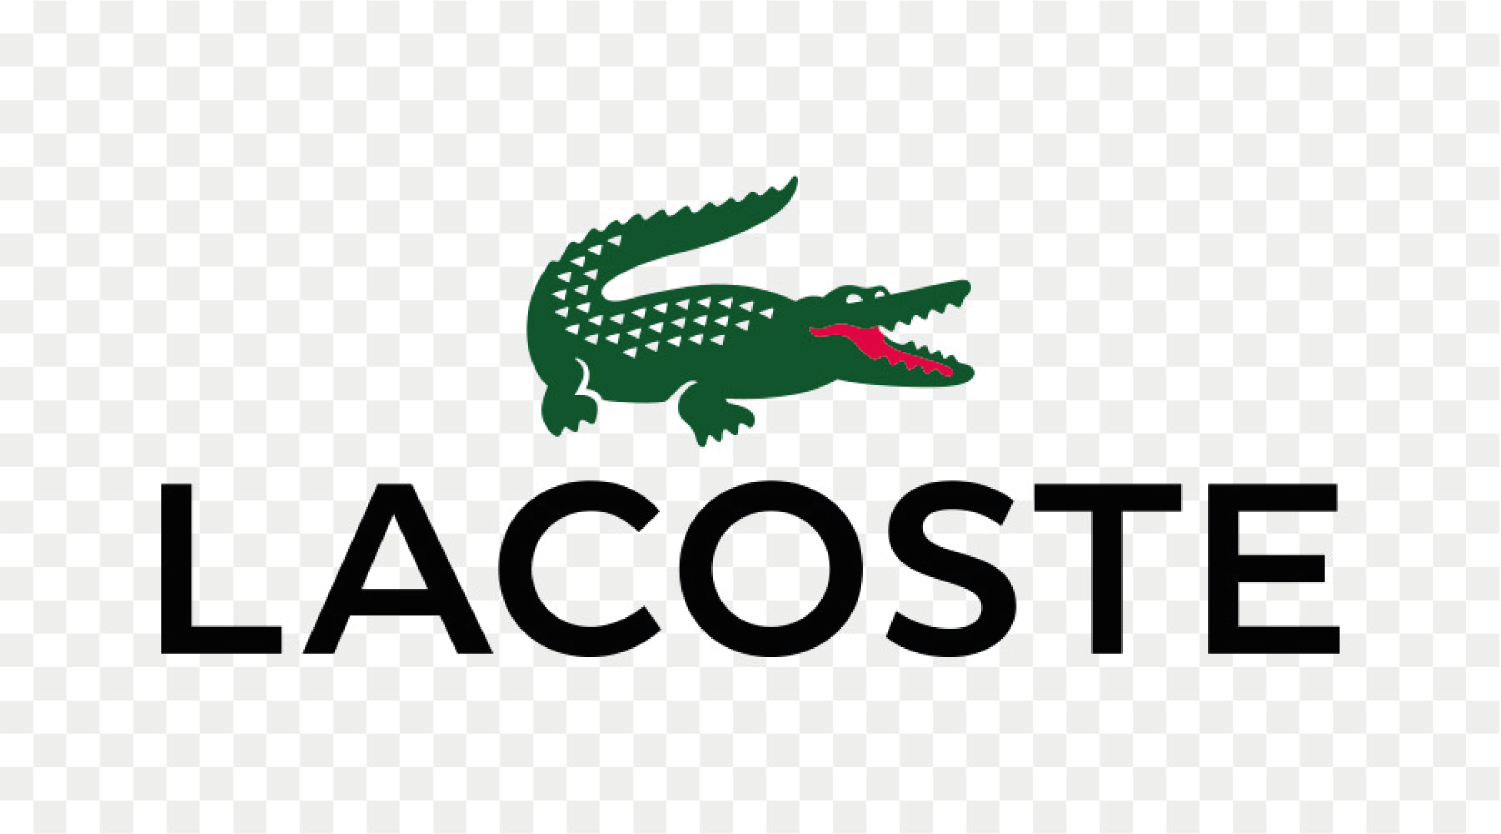
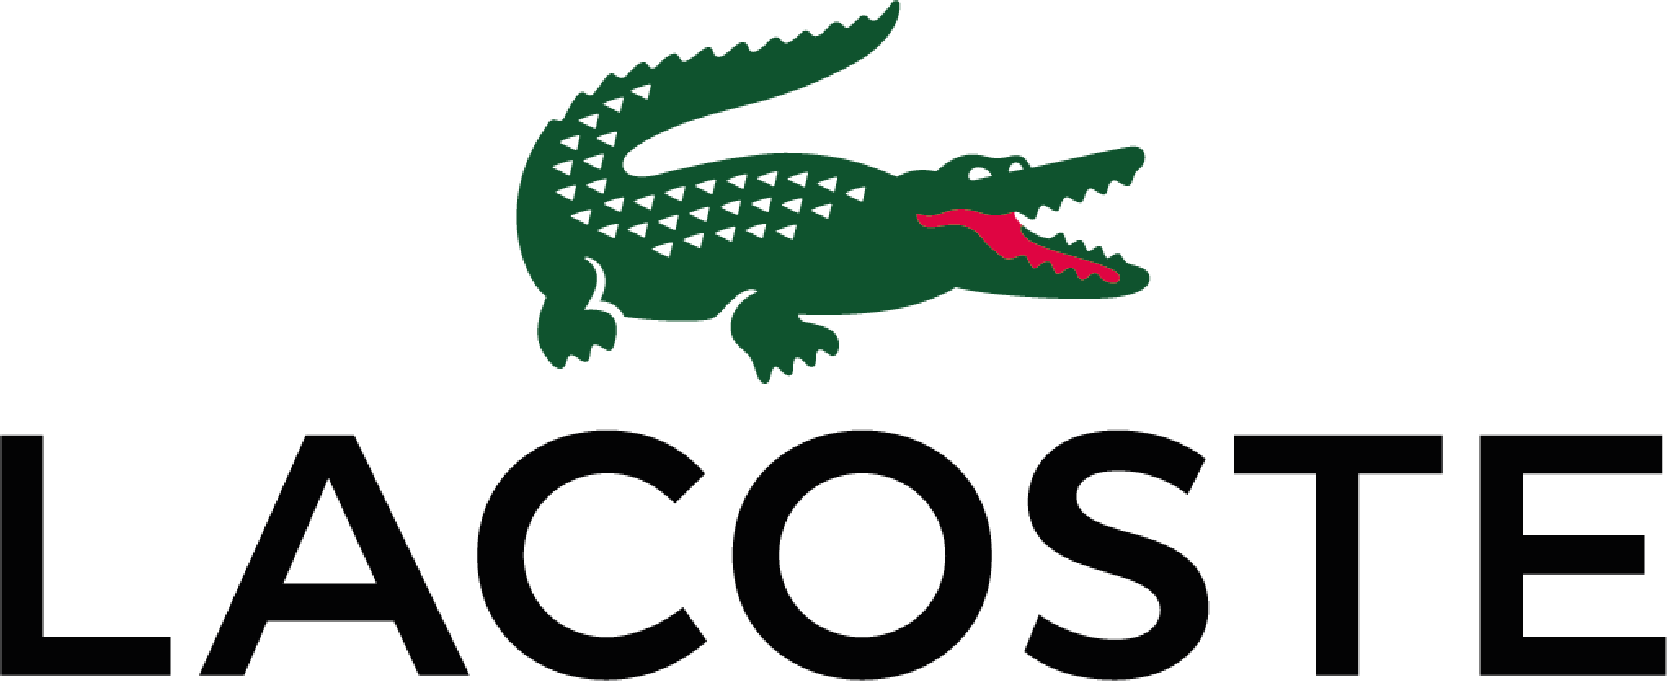
progression slider homeé

Changed region(s): [[0.0, 0.5543, 1.0, 1.0], [0.3065, 0.0, 0.7049, 0.5543]]

diff --git a/app/assets/stylesheets/pages/_home.scss b/app/assets/stylesheets/pages/_home.scss
@@ -375,9 +375,7 @@ section .mvt.wave1 {
   width: 100%;
   padding: 100px 40px 100px 40px;
 }
-.logo-slider .item {
-  img {
+.logo-slider img {
     width: 50%;
-    }
-  }
+}
 
